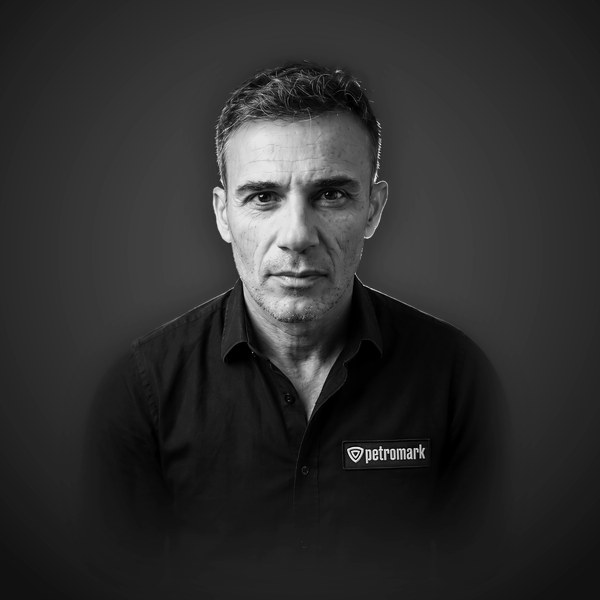
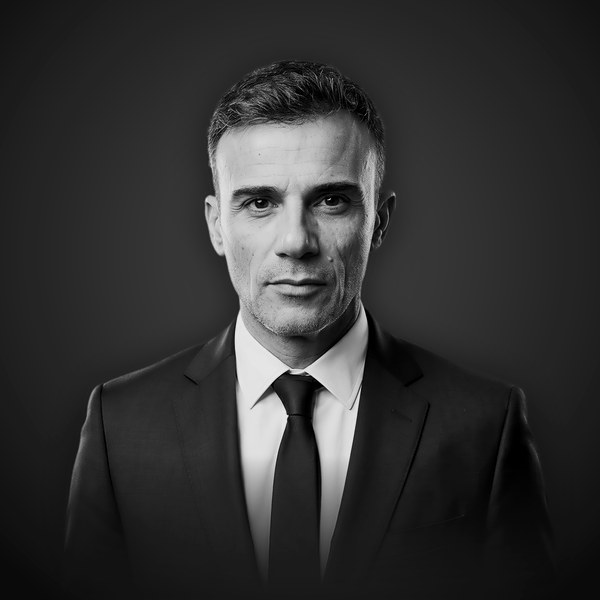
Actualiza foto de Gustavo Twardowski

Changed region(s): [[0.18, 0.09, 0.81, 0.93], [0.84, 0.66, 0.9, 0.87], [0.12, 0.63, 0.21, 0.81]]

diff --git a/fotos.py b/fotos.py
@@ -26,7 +26,7 @@ FADE = 0.24                       # alto del desvanecido del torso, fracción de
 FADE_POR_SLUG = {}
 ZOOM_POR_SLUG = {                 # ajustes puntuales aprobados por el usuario (más alto = más lejos)
     "ecanullo": 5.0,
-    "gtwardowski": 3.8,
+    "gtwardowski": 4.4,
     "rparra": 5.0,
     "lamenabar": 3.8,
 }
